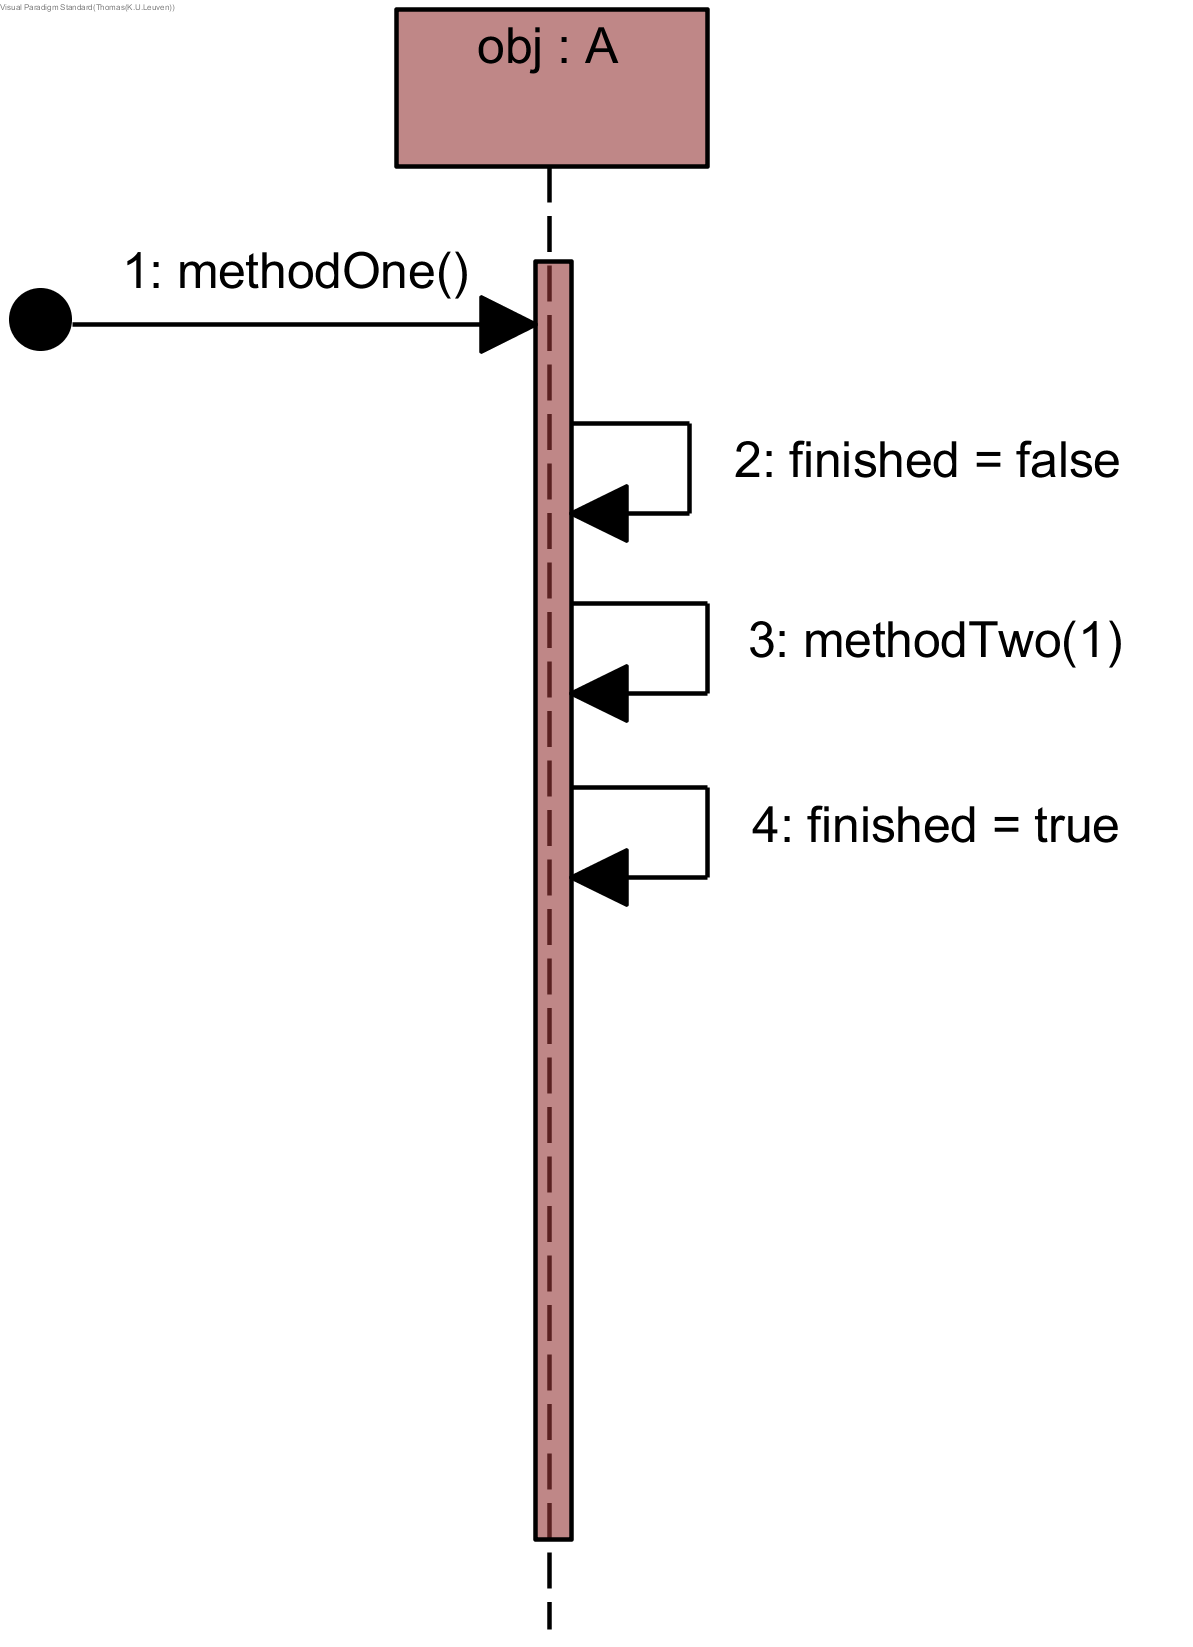
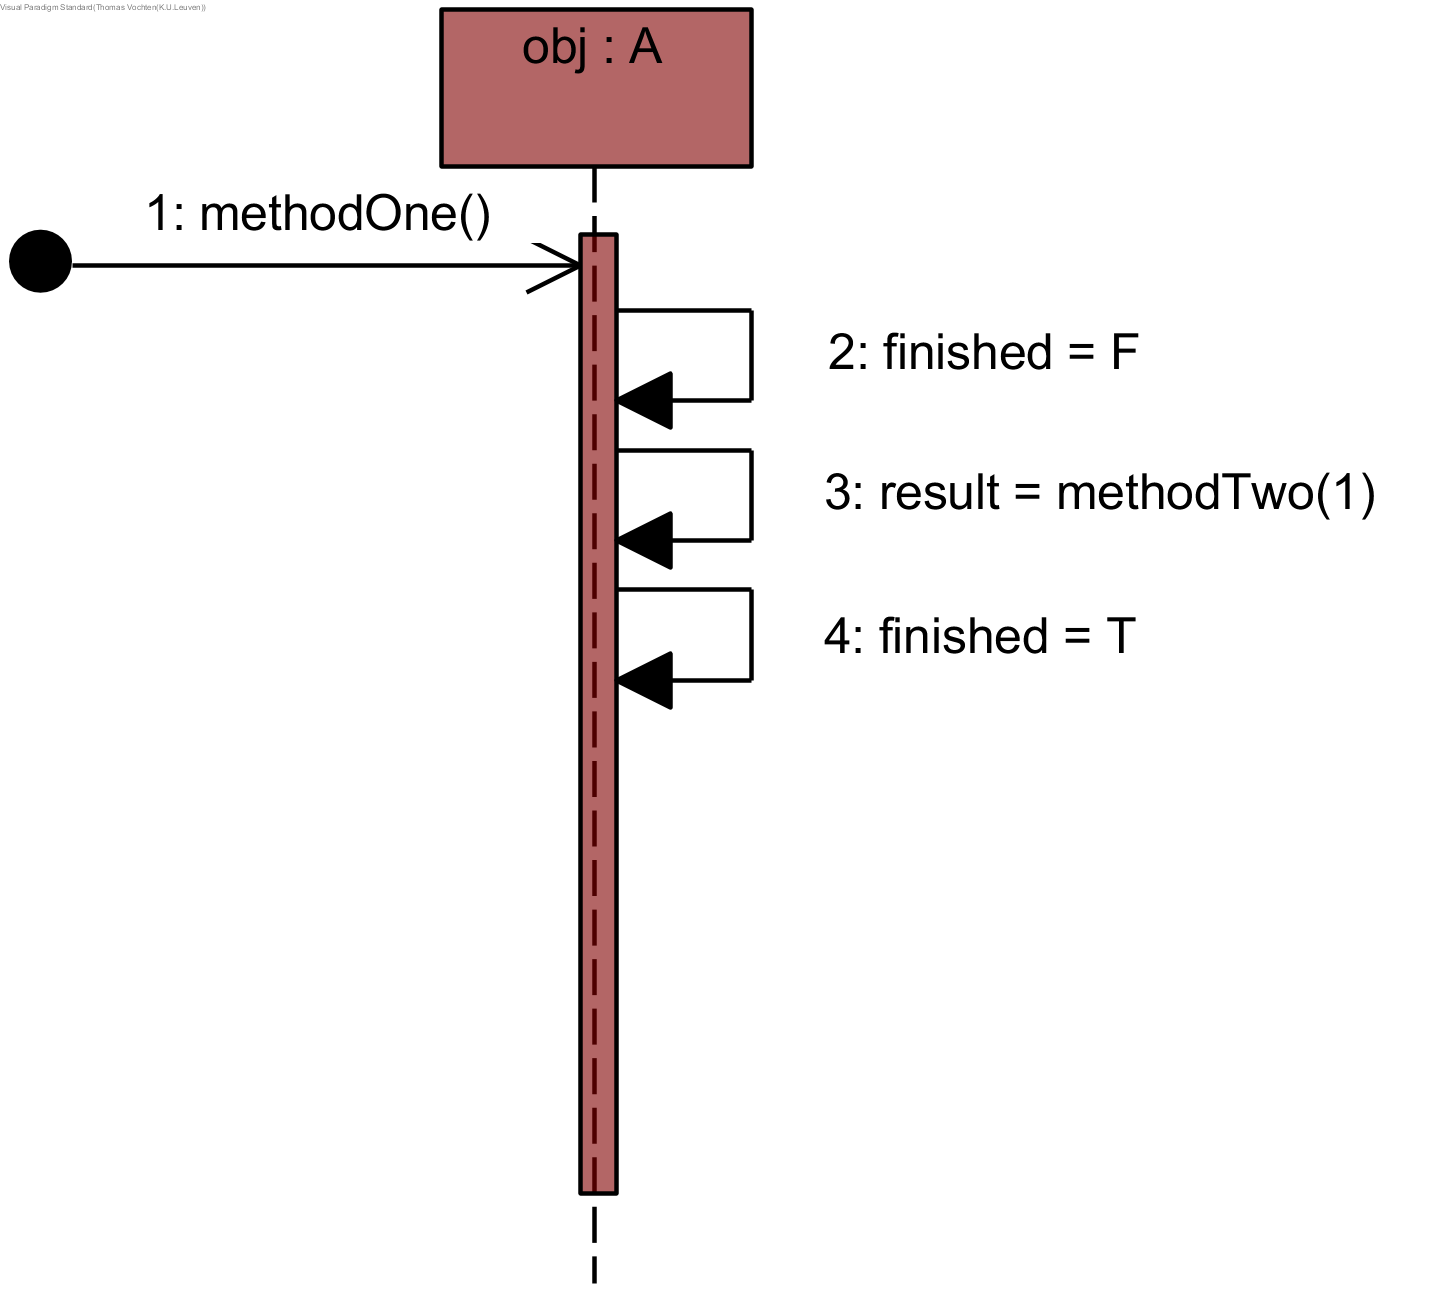
forgot to add causations for method result assignment

diff --git a/chap-gedrag/chap-gedrag.tex b/chap-gedrag/chap-gedrag.tex
@@ -3,11 +3,13 @@ Een ander populair type van UML-diagram is het sequentiediagram\cite{RumbaughJam
 
 Dit hoofdstuk beschrijft hoe we vocabularia en logische theorie\"en gegenereerd volgens de regels beschreven in sectie \ref{sec:cd-rep-cons} kunnen uitbreiden om het gedrag voorgesteld in een sequentiediagram te modelleren.
 
-\section{Componenten van een sequentiediagram}
+Sectie \ref{sec:sd-components} beschrijft de verscheidene componenten van een sequentiediagram en hun betekenis. Sectie \ref{sec:sd-ltc} benoemt het mechanisme dat we gebruiken om deze componenten voor te stellen in FO($\cdot$) en waarom we dat mechanisme gebruiken. Secties \ref{sec:sd-voc} tot en met \ref{sec:interaction} bouwen de regels voor onze voorstelling op. Ten slotte lijst sectie \ref{sec:beperkingen} de beperkingen op geldige sequentiediagrammen in de context van onze voorstelling op.
+
+\section{Componenten van een sequentiediagram}\label{sec:sd-components}
 
 Deze sectie beschrijft welke componenten we beschouwen in deze masterproef. We beperken in bepaalde aspecten de mogelijkheden voor de ontwerptaal beschikbaar voor sequentiediagrammen. Dit doen we om bij inferentie op de theorie\"en resulterend uit het vertaalproces beschreven in dit hoofdstuk de rekentijd en het geheugengebruik binnen de perken te houden.
 
-Figuur \ref{fig:seq-diagram-game} geeft een voorbeeld van een sequentiediagram gebaseerd op het klassediagram voorgesteld in figuur \ref{fig:diagram-voorbeeld}.
+Figuur \ref{fig:seq-diagram-game} geeft een voorbeeld van een sequentiediagram gebaseerd op het klassediagram voorgesteld in figuur \ref{fig:diagram-voorbeeld}. Het modelleert het gedrag van de methode \textit{attackWith(Character, Weapon)} gedefinieerd voor de klasse \textit{Character}.
 
 Een instantie wordt voorgesteld door een kader met daarin tekst volgens het patroon \textit{instantienaam : klassenaam}. Dit wil zeggen dat bijvoorbeeld \textit{attacker} een instantie is van de klasse \textit{Character}. Vanuit elk kader vertrekt ook een streepjeslijn: De \textbf{levenslijn}. Deze levenslijn kan ingevuld worden door gekleurde balken, welke de duur van een oproep van een methode aan een instantie voorstellen.
 Verder zijn er ook kaders die berichten omsluiten. Deze kaders duiden \textbf{gecombineerde fragmenten} aan, en deze tekst beschouwt twee soorten:
@@ -19,7 +21,7 @@ Verder zijn er ook kaders die berichten omsluiten. Deze kaders duiden \textbf{ge
 
 Berichten worden voorgesteld door pijlhoofden aan ofwel een ononderbroken lijn ofwel een streepjeslijn. Ze kunnen verscheidene betekenissen hebben afhankelijk van de context.
 
-Allereerst zijn er berichten die een variabele defini\"eren en er een waarde aan toekennen. Die waarde kan direct berekend worden, zoals in instructie 12 in figuur \ref{fig:seq-diagram-game}. De waarde kan een directe waarde zijn zoals 3 of ``foo'', een variabele, of een bewerking op directe waarden of variabelen van primitieve types. Als de instructie een bewerking op waarden van een primitief type is, moeten de gebruikte waardes allemaal van hetzelfde type zijn en moet het type een geldig invoertype voor de bewerking zijn, anders is het sequentiediagram ongeldig. De toegekende waarde kan ook het resultaat zijn van een methodeoproep, zoals in instructie 3 in dezelfde figuur. Als de methode die wordt opgeroepen een methode is gedefinieerd voor een klasse door het klassediagram, wordt de waarde eerst berekend in een uitvoering van het bijhorend sequentiediagram v\'o\'or het wordt toegekend aan de variabele.
+Er zijn berichten die een variabele defini\"eren en er een waarde aan toekennen. Die waarde kan direct berekend worden, zoals in instructie 12 in figuur \ref{fig:seq-diagram-game}. De waarde kan een directe waarde zijn zoals 3 of ``foo'', een variabele, of een bewerking op directe waarden of variabelen van primitieve types. Als de instructie een bewerking op waarden van een primitief type is, moeten de gebruikte waardes allemaal van hetzelfde type zijn en moet het type een geldig invoertype voor de bewerking zijn, anders is het sequentiediagram ongeldig. De toegekende waarde kan ook het resultaat zijn van een methodeoproep, zoals in instructie 3 in dezelfde figuur. Als de methode die wordt opgeroepen een methode is gedefinieerd voor een klasse door het klassediagram, wordt de waarde eerst berekend in een uitvoering van het bijhorend sequentiediagram v\'o\'or het wordt toegekend aan de variabele.
 
 Een numerieke variabele kan een waarde krijgen door middel van de functies \textit{chooseEx(lowerBound, upperBound)} en \textit{chooseIn(lowerBound, upperBound)}. Bij uitvoering van die functies geeft de gebruiker een getal $n$ op. Bij \textit{chooseEx} geldt dat $n \geq lowerBound$ en $n < upperBound$ en bij \textit{chooseIn} geldt dat $n \geq lowerBound$ en $n \leq upperBound$.
 
@@ -51,12 +53,12 @@ Wat betreft associaties beschouwen we enkel binaire associaties. Ze defini\"eren
 %}
 %\end{landscape}
 
-\section{De keuze voor lineaire tijdscalculus}
+\section{De keuze voor lineaire tijdscalculus}\label{sec:sd-ltc}
 UML-diagrammen schrijven mogelijke toestanden van softwaresystemen en acties op deze voor. Die systemen kunnen van toestand veranderen tussen tijdstappen. Sequentiediagrammen zijn een manier om te beschrijven hoe zulke veranderingen teweeggebracht kunnen worden. Tijdens de uitvoering van een sequentiediagram mag het systeem enkel veranderen zoals beschreven door de huidige actie. Daarom hebben we een mechanisme nodig binnen FO($\cdot$) dat dynamische systemen en bewerkingen erop kan beschrijven. Tegelijk moet dat mechanisme garanderen dat eigenschappen van het systeem die niet worden be\"invloed door de huidige beschouwde actie van het sequentiediagram niet veranderen. Lineaire tijdscalculus\cite{BogaertsBart2014Sdsu}, oftewel LTC, voldoet aan deze voorwaarden. Daarom zullen we om sequentiediagrammen uitvoerbaar te maken binnen FO($\cdot$) het generatieproces voor het vocabularium en de theorie die we bekomen hebben in hoofdstuk \ref{sec:consistentie} uitbreiden volgens de principes van LTC. Dit betekent dat we de predicaten voor operaties die voorheen gegenereerd werden in hoofdstuk \ref{sec:consistentie} achterwege laten.
 
 In de volgende secties werken we deze uitbreiding uit voor het sequentiediagram in figuur \ref{fig:seq-diagram-game}.
 
-\section{Veranderingen aan het vocabularium}
+\section{Veranderingen aan het vocabularium}\label{sec:sd-voc}
 Allereerst verwijderen we alle predicaten omtrent methodes gegenereerd volgens de regels in sectie \ref{sec:cons-method}. Sequentiediagrammen modelleren immers het gedrag van methodes gedefinieerd in een bijhorend klassediagram, dus zijn deze predicaten nu overbodig.
 
 In LTC is tijd een centraal concept, dus daarom introduceren we een logisch type $Time \subset \mathbb{N}$. Verder defini\"eren we een parti\"ele functie \textit{Next(Time)} dat voor alle tijdpunten het volgende tijdpunt geeft behalve voor het laatst mogelijke tijdpunt. We defini\"eren ook een constante \textit{Start}, wat het eerst mogelijke tijdpunt aanduidt.
@@ -720,12 +722,12 @@ In een project stelt men doorgaans meerdere sequentiediagrammen op die elkaar oo
 
 \begin{figure}[htp]
 	\centering
-	\includegraphics[width=\textwidth]{chap-gedrag/methodTwo.png}
+	\includegraphics[width=0.7\textwidth]{chap-gedrag/methodTwo.png}
 	\caption{Sequentiediagram voor methodTwo()}
 	\label{fig:methodtwo}
 \end{figure}
 
-In de volgende subsecties gebruiken we het voorbeeld uitgebeeld in figuren \ref{fig:recursion-class} en \ref{fig:methodOne} en \ref{fig:methodtwo} om de gebruikte principes te illustreren.
+In de volgende subsecties gebruiken we het voorbeeld uitgebeeld in figuren \ref{fig:recursion-class}, \ref{fig:methodOne} en \ref{fig:methodtwo} om de gebruikte principes te illustreren.
 
 \subsection{Aanpassingen aan \textit{SDPoint}}
 Het is niet meer voldoende om \textit{SDPoint}s te modelleren als natuurlijke getallen aangezien elk diagram zijn eigen \textit{SDPoint}s heeft. Om de \textit{SDPoint}s horende bij elk diagram van elkaar te kunnen onderscheiden, maken we van het logisch type \textit{SDPoint} nu een \textit{constructed type} in IDP. We gebruiken als patroon voor de naamgeving van elk logisch object $<diagramnaam>\_<instructienummer>$. Voor het voorbeeld krijgen we o.a. $methodOne\_2$ en $methodTwo\_3$. We voegen ook een nieuwe functie toe aan het vocabularium dat gegeven een \textit{SDPoint} het volgende \textit{SDPoint} teruggeeft, namelijk $NextSD(SDPoint) : SDPoint$.
@@ -813,8 +815,26 @@ Er komen twee nieuwe soorten variabelen bij: Objecten waarvan een methode wordt 
 
 Zin \ref{eq:mtwoarg-inc} demonstreert dat ook buiten oproepinstructies of een terugkeer uit een diagram wordt gekeken naar het oproepniveau. Er wordt immers enkel gekeken of geschreven naar de waarde van de 'versie' van de variabele die overeenkomt met het huidige oproepniveau. Dit komt ook terug bij de variabelen die niet het oproepobject of een parameter van een methode voorstellen.
 
+\subsubsection{Causatiezinnen voor het resultaat van een oproep}
+
+Diagrammen die een waarde berekenen hebben een laatste instructie die die waarde doorgeeft aan de oproepende methode. Instructie 5 in diagram \ref{fig:methodtwo} is daar een voorbeeld van. Zulk een instructie benoemt de variabele die dient als resultaat.
+
+Stel een diagram met als naam \textit{diagramA} een ander diagram oproept in instructie $i$ en het resultaat toekent aan de variabele \textit{var}. Stel verder dat het opgeroepen diagram de variabele \textit{return} benoemt als resultaat. Om zulk een toekenning waar te maken, voegen we een zin toe volgens dit patroon:
+
+\begin{align*}
+	&\forall{t}[Time]\forall{st}[StackLevel]\forall{v}[VarType](C\_VarT(t, st, v) \\ &\leftarrow (CurrentStackLevel(t) = st) \land SDPointAt(t, diagramA\_ipost) \\ &\land ReturnT(t, (st+1), v)).
+\end{align*}
+
+De eigenlijke toekenning gebeurt dus in de virtuele instructie na een oproep. Deze instructie haalt de waarde van de resultaatvariabele voor de juist afgesloten stapeldiepte op en slaagt ze op in de juiste variabele.
+
+Voor instructie 3 in \textit{methodOne} krijgen we dus:
+
+\begin{align*}
+&\forall{t}[Time]\forall{st}[StackLevel]\forall{n}[LimitedInt](C\_ResultT(t, st, n) \\ &\leftarrow (CurrentStackLevel(t) = st) \land SDPointAt(t, methodOne\_3post) \\ &\land MTwoArgT(t, (st+1), n)).
+\end{align*}
+
 \subsubsection{Uitkomst van de beschreven procedure}
-Er zijn geen noemenswaardige veranderingen aan hoe we de toestandszinnen opstellen. Bijlage \ref{app:seq-recursion} bevat de uitkomst van de procedure die we hebben beschreven in deze sectie. 
+Er zijn geen noemenswaardige veranderingen aan hoe we de toestandszinnen opstellen. Bijlage \ref{app:seq-recursion} bevat de uitkomst van de procedure die we hebben beschreven in deze sectie voor figuren \ref{fig:recursion-class}, \ref{fig:methodOne} en \ref{fig:methodtwo}. 
 
 \section{Extra veronderstellingen over het ontwerp van sequentiediagrammen}\label{sec:beperkingen}
 Er zijn een aantal veronderstellingen ten aanzien van sequentiediagrammen die de gebruiker als invoer geeft. We maken deze veronderstellingen om bij inferentie op theorie\"en resulterend uit de regels van dit hoofdstuk de rekentijd en het geheugengebruik binnen de perken te houden. De veronderstellingen zijn als volgt:
